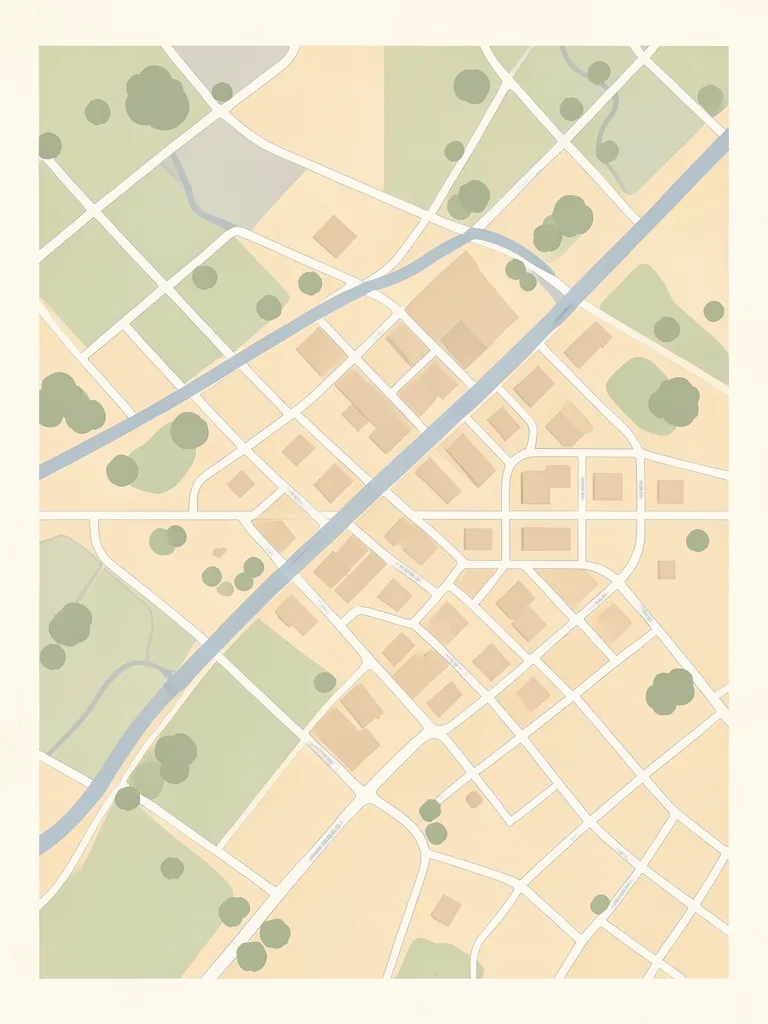
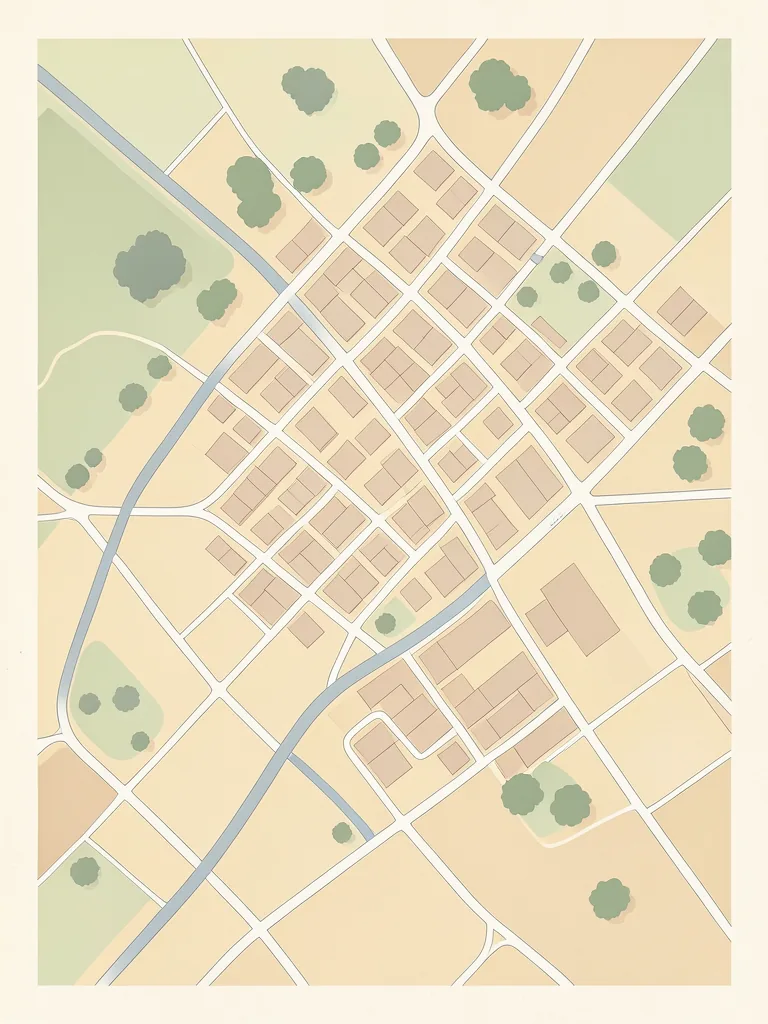
feat(ux): plano definitivo (variante sin texto incrustado)
De las cuatro variaciones generadas se instala la unica sin ningun texto,
letra o numero incrustado. No es solo estetica: los rotulos de los puntos
van en HTML ENCIMA del plano, asi que un plano con nombres de calle
inventados compite con ellos y no se pueden cambiar sin rehacer la imagen.

Ventaja de la elegida: nucleo urbano denso en diagonal y verde en la
periferia, con lo que el recorrido (que sube de sur a norte) tiene sitio
para las chinchetas sin amontonarse.

Comprimida 1.07 MB -> 67 KB (WebP q82).

diff --git a/ux/README.md b/ux/README.md
@@ -34,9 +34,11 @@ Es la pregunta importante, así que va primero y sin rodeos.
   nombre inventado.
 - **El nombre de la voluntaria**: *Juana España*, siguiendo la convención de los
   documentos de identidad de muestra.
-- **El plano del trayecto**: es una **ilustración**, no una proyección del escenario.
-  Las chinchetas están colocadas de forma verosímil para que se entienda el recorrido,
-  pero **no corresponden a las coordenadas reales** de los puntos.
+- **El plano del trayecto**: es una **ilustración generada**, no una proyección del
+  escenario. Las chinchetas están colocadas de forma verosímil para que se entienda el
+  recorrido, pero **no corresponden a las coordenadas reales** de los puntos. Se eligió
+  la variante sin ningún texto incrustado, para que los rótulos de la interfaz sean los
+  únicos que se leen (y se puedan cambiar sin rehacer la imagen).
 
 ### Por qué esta separación
 
